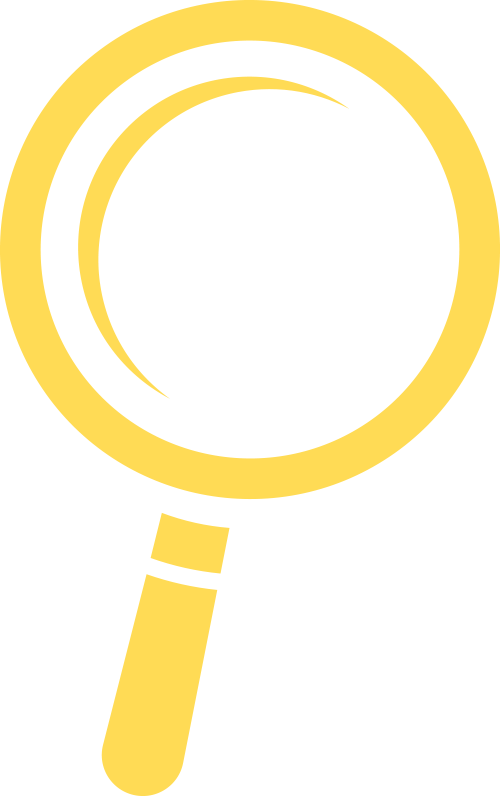
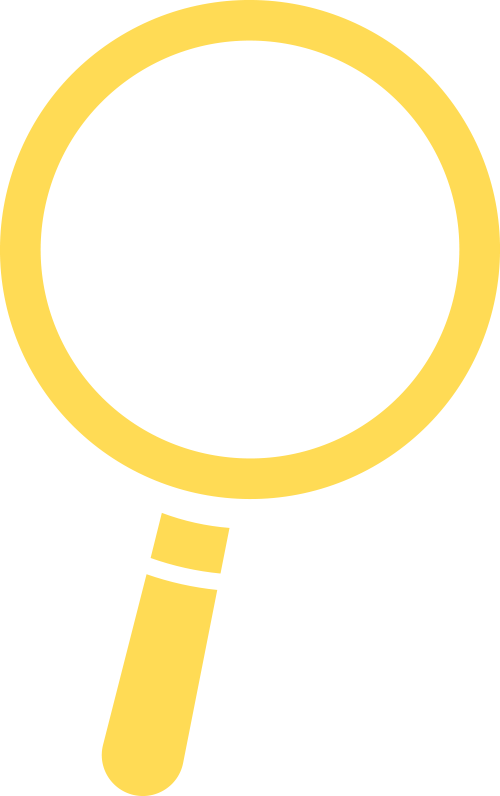
social links

Changed region(s): [[0.15, 0.0905, 0.66, 0.4824], [0.66, 0.1206, 0.69, 0.1508], [0.3, 0.4824, 0.33, 0.5126]]

diff --git a/css/splash.css b/css/splash.css
@@ -1,41 +1,35 @@
 body {
     font-family: rajdhani-bold;
     color: #ffffff;
-    padding: 20px;
-    padding-bottom: 200px;
+    padding: 0 20px 200px 20px;
 }
 .splash{
     margin: auto;
     text-align: center;
     padding: 0;
     max-width: 1500px;
+    position: relative;
 }
 
 .splash .lang-switch{
     width: 30px;
     margin-top: 40px;
-}
-
-.splash .explosion{
     position: absolute;
-    left: 60px;
-    top: 0;
-    width: 30%;
+    top:0;
+    right: 20%;
 }
 
-.splash .logo{
-    width: 100%;
-}
+
 .splash p{
     color: white;
-    padding: 0 40px;
+
 }
 .splash p.yellow{
     color: #ffdb55;
 }
 
 .splash .logo{
-    width: 60%;
+    width: 85%;
 }
 .splash .materiel{
     width: 80%;
@@ -60,6 +54,10 @@ body {
     margin: auto;
 }
 
+.splash .box-ending h2{
+    margin-top: 50px;
+    line-height: 1;
+}
 .splash .box{
     float: left;
     margin-top: 20px;
@@ -72,9 +70,15 @@ body {
     padding: 20px;
     border: 5px solid #ffdb55;
     border-radius: 20px;
-    margin: 60px 0 20px 0;
-    font-size: 1.5em;
+    margin: 50px 0 10px 0;
+    font-size: 2em;
     line-height: 1em;
+}
+
+.splash .sortie{
+    color: #ffdb55;
+    font-size: 1.5em;
+    white-space: nowrap;
 }
 
 .splash .logo_SM{
@@ -113,9 +117,18 @@ body {
 /* Mobile version */
 @media (max-width: 768px) {
 
+    body{
+        background-size: 200%;
+    }
+    .splash .logo {
+        width: 130%;
+        margin-left: -13%;
+    }
+
     .splash .lang-switch{
         width: 15px;
         margin-top: 5px;
+        left:2%;
     }
     .splash .cards,
     .splash .materiel
@@ -124,6 +137,16 @@ body {
     }
     .splash .tools{
         width: 60%;
+    }
+
+    .splash .announce{
+        margin-top:20px;
+        font-size: 1.7em;
+    }
+    button {
+        padding: 7px 25px;
+        margin:10px;
+        font-size: 0.8em;
     }
 
 }

diff --git a/css/app.css b/css/app.css
@@ -28,19 +28,6 @@ body{
     font-family: rajdhani;
 }
 
-button{
-    color: #b855a0;
-    background-color: #ffdb55;
-    font-family: rajdhani-bold;
-    border: none;
-    padding: 10px;
-    -webkit-transform: skewX(-15deg);
-    transform: skewX(-15deg);
-    border: 2px solid #ffffff;
-    cursor: pointer;
-    border-radius: 3px;
-}
-
 #container{
     height: 100%;
     width: 100%;
@@ -133,8 +120,9 @@ button{
     height: 100%;
     width: auto;
     margin: auto;
-    border: 10px solid #b655a0;
-    border-radius: 15px;
+
+    border-radius: 60px;
+    overflow: hidden;
     display: inline-block;
 
     position: relative;
@@ -255,7 +243,7 @@ button{
 
 #hint-magnifier{
     position: fixed;
-    border: 1px solid rgba(0,0,0,.5);
+    border: 1px solid rgba(0,0,0,0);
     border-radius: 50%;
     z-index:11;
     overflow: visible;
@@ -295,12 +283,13 @@ button{
     z-index:12;
 }
 .tuto-text{
-    width: 70%;
-    color: #3f007f;
-    background: #ffdb55;
+    width: 45%;
+    color: #ffffff;
+    border: 3px solid #ffdb55;
+    background: rgba(0,0,0,0.2);
     text-align: center;
-    border-radius: 7px;
-    padding: 30px;
+    border-radius: 30px;
+    padding: 20px;
     font-weight: bold;
     font-size: large;
     margin: 30px auto;

diff --git a/index.php b/index.php
@@ -36,16 +36,13 @@
 <body>
 <!-- ----------------------------------------------------------splash screen ------------------------------ -->
 <div class="splash">
-<div class="row">
-    <div class="col-10 text-end">
-        <?php if($_GET['lang'] === 'en'):?>
-        <a href="?lang=fr"><img class="lang-switch" src="img/index/lang_fr.png" alt="FR"></a>
-        <?php else:?>
-        <a href="?lang=en"><img class="lang-switch" src="img/index/lang_en.png" alt="EN"></a>
-        <?php endif;?>
-    </div>
-</div>
-    <img class="explosion" src="img/index/explosion.png" alt="L'unives de zombie kidz s'étend" />
+
+    <?php if($_GET['lang'] === 'en'):?>
+    <a href="?lang=fr"><img class="lang-switch" src="img/index/lang_fr.png" alt="FR"></a>
+    <?php else:?>
+    <a href="?lang=en"><img class="lang-switch" src="img/index/lang_en.png" alt="EN"></a>
+    <?php endif;?>
+
     <img class="logo" src="img/index/logo.png" alt="logo FlashBack Zombie kidz" />
     <p>
         <button>
@@ -60,7 +57,7 @@
         </button>
 
     </p>
-    <h2>FLASHBACK EST UN JEU D&#39;ENQUÊTE COOPÉRATIF<br/> DANS L’UNIVERS DE ZOMBIE KIDZ</h2>
+    <h2><i>FLASHBACK</i> EST UN JEU D&#39;ENQUÊTE COOPÉRATIF<br/> DANS L’UNIVERS DE <i>ZOMBIE KIDZ</i></h2>
     <p>
         Il ne reste que quelques instants avant que les zombies ne causent la fin du monde !<br/>
         Heureusement, tu disposes d’une machine permettant de visiter un souvenir.
@@ -68,11 +65,11 @@
 
     <img class="materiel" src="img/index/game.png" alt="Materiel de jeu" style=""/>
 
-    <h2>ÉLUCIDER DES MYSTÈRES</h2>
+    <h2>ÉLUCIDE DES MYSTÈRES</h2>
     <p>
-        C’EST LA PANIQUE! Il ne reste que quelques minutes avant la fin du monde... <br/>
-        Les zombies ont pris le contrôle de l’école et leur plan de conquête de la Terre est sur le point d’aboutir! <br/>
-        Tous les habitants de la planète risquent de se transformer en mangeurs de choucroute à la cervelle! <br/>
+        C’EST LA PANIQUE ! Il ne reste que quelques minutes avant la fin du monde... <br/>
+        Les zombies ont pris le contrôle de l’école et leur plan de conquête de la Terre est sur le point d’aboutir ! <br/>
+        Tous les habitants de la planète risquent de se transformer en mangeurs de choucroute à la cervelle ! <br/>
         Il ne reste qu’un seul espoir: un bidule développé par les Kidz qui permet de voyager dans un souvenir.<br/>
         Comprendre le passé te permettra peut-être de changer l’avenir et de sauver le monde.<br/>
         Nous avons besoin de toi pour mener l’enquête !
@@ -82,7 +79,7 @@
         Saute d’un point de vue à l’autre, découvre des indices…
         élucide les mystères et déjoue le plan des zombies !<br/>
         Dès novembre, découvre de vais gadgets qui modifient le jeu et rejoue chacun des 3 scenarios
-        d’une toute nouvelle façon!
+        d’une toute nouvelle façon !
     </p>
     <img class="cards" src="img/index/cards.png" alt="Cartes"/>
     <img class="planet" src="img/index/planet.png" alt="planet logo"/>
@@ -95,7 +92,7 @@
             <div class="col-md-7">
                 <h2>FAIS ÉQUIPE AVEC TES AMIS <br/>OU TA FAMILLE</h2>
                 <p>
-                    Flashback : Zombie Kidz est un jeu d&#39;enquête coopératif. Rassemble ton équipe autour de la
+                    <i>Flashback : Zombie Kidz</i> est un jeu d&#39;enquête coopératif. Rassemble ton équipe autour de la
                     table et ensemble, découvrez des indices, élucidez des mystères et arrêtez le plan machiavélique
                     des zombies !
                 </p>
@@ -105,10 +102,10 @@
                 </div>
                 <div class="announce">
                     Précommande<br/>
-                    FLASHBACK : ZOMBIE KIDZ
+                    <i>FLASHBACK : ZOMBIE KIDZ</i>
                     <br/>dans ta boutique ludique préférée.
                 </div>
-                <p class="yellow">Sortie Novembre 2022</p>
+                <p class="sortie">Sortie Novembre 2022</p>
             </div>
         </div>
     </div>
@@ -127,7 +124,7 @@
     </button>
 
     <div class="clearfix"></div>
-    <img class="logo_SM" src="img/index/logo_sm.png" alt="Scorpion masqué"/>
+    <a href="https://www.scorpionmasque.com" target="_blank"><img class="logo_SM" src="img/index/logo_sm.png" alt="Scorpion masqué"/></a>
     <div class="social">
         <a href="https://www.instagram.com/scorpionmasque/" target="_blank" class=" insta"      >Instagram</a>
         <a href="https://twitter.com/Scorpionmasque"        target="_blank" class=" twitter"    >Twitter</a>

diff --git a/game.php b/game.php
@@ -209,12 +209,9 @@
 
 <!-- ---------------------------------------------------------- TUTO --------------------------------------- -->
 
-<!-- full overlay without the magnifying glass -->
-<div id="first-overlay"></div>
-
 <!-- Magnifier -->
 <div id="hint-magnifier" class="hint">
-    <img class="magnifying-glass" src="img/game/loupe.png" />
+    <img class="magnifying-glass" src="img/game/FB_Loupe.png" />
 </div>
 
 <!-- texts -->
@@ -383,14 +380,12 @@
             activateQuestion($('question1'),0);
             showTutotext($('text-tuto-6'));
             $('hint-magnifier').style.display='none';
-            $('first-overlay').style.display='block';
 
         });
 
         // tuto step 6
         $('tuto-next-step6').addEventListener('click',function(){
             $('hint-magnifier').style.display='none';
-            $('first-overlay').classList.add('fadded');//style.display='none';
             $('texts-tuto').remove();
 
             // go to first piece
@@ -418,8 +413,6 @@
         $tutohintMagnifier.style.width = linkpos.width + 'px';
         $tutohintMagnifier.style.height = linkpos.width + 'px'; // square to get a circle
 
-        // remove default overlay
-        $('first-overlay').style.display='none';
     }
 
     var target;
